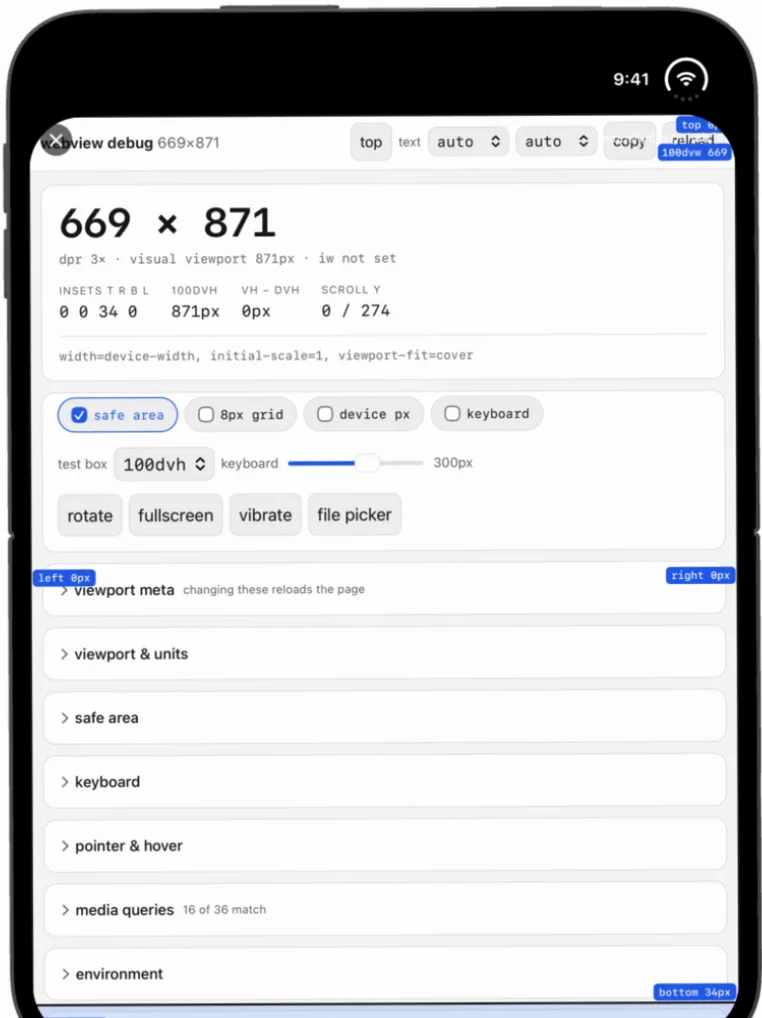
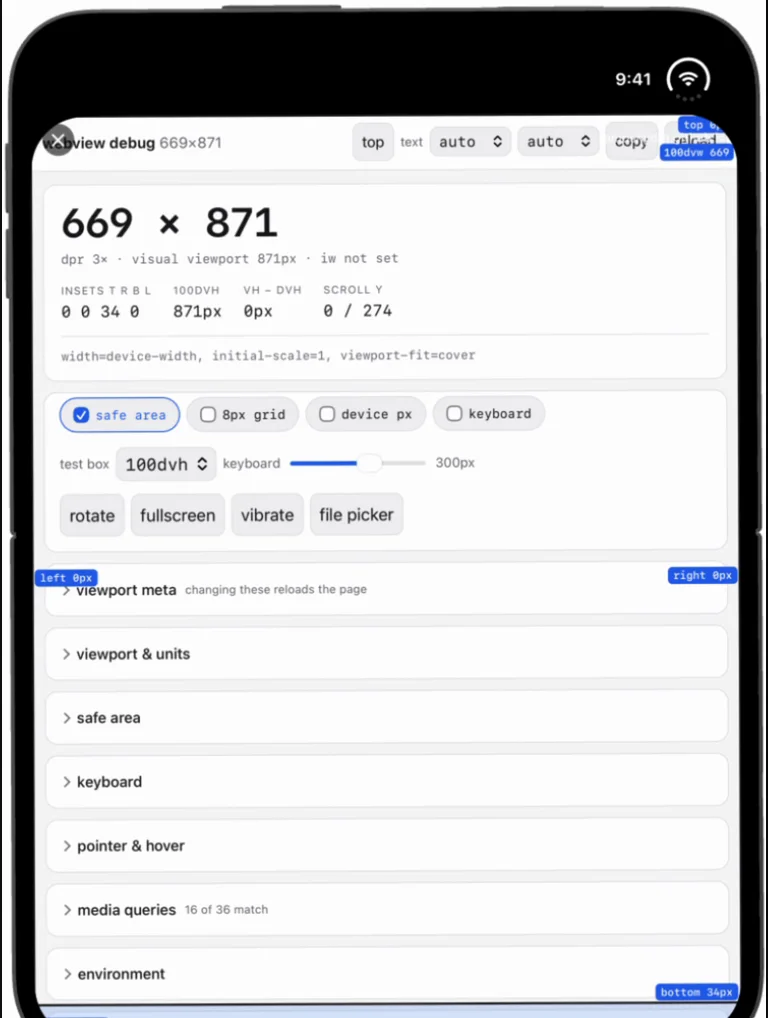
fix(post): replace all three Xcode 27.0 comparison frames
Every 27.0 frame in the SDK comparison table was picked by the
size-grouping heuristic that had already been shown to be unreliable,
and re-checking them found real defects:

  inner landscape  carried the recorder's mouse cursor, which had been
                   removed with ffmpeg delogo; the removal smeared
                   visibly across the black bezel and left a tail
  outer portrait   taken from a run where three frames out of five are
                   drawn rotated 90 degrees
  inner portrait   correct, but re-taken from the same run for
                   consistency

Regrouped by stillness instead of size. stable_runs.py samples every
frame, computes the device's dark bounding box, and keeps only runs of
three or more consecutive frames whose box has not moved or resized.
Rotation and folding animate that box, so the runs that survive are the
poses worth looking at, and reviewing one frame per run as a contact
sheet makes the bad ones obvious. The 27.0 take turns out to have only
two genuinely settled frames, both inner landscape at 871 x 669, at
t=1 and t=64; everything else that holds still for 1.5s is split view, a
half-finished fold, or the Springboard.

All three replacement frames are upright, cursor-free and need no delogo.
The letterbox is clearly visible in each: 386 x 678 with 0 0 34 0 on the
outer display, 871 x 669 with 0 34 20 34 and 669 x 871 with 0 0 34 0 on
the inner one.
[…]

diff --git a/content/posts/webview-safe-area-inset-override/stable_runs.py b/content/posts/webview-safe-area-inset-override/stable_runs.py
@@ -1,0 +1,79 @@
+#!/usr/bin/env python3
+"""Find the runs of frames where the device holds still, in a screen recording.
+
+A settled pose has a device bounding box that does not move or resize. Rotation
+and folding animate it, so grouping consecutive frames by an unchanged bbox
+separates the poses worth looking at from the transitions, without having to
+guess a timestamp or trust an aspect ratio.
+"""
+import pathlib, subprocess, sys
+
+W, H = 1158, 1196
+FS = W * H * 3
+FPS = 2
+TOL = 2  # px; absorbs encoder noise without merging genuinely different poses
+
+
+def device_bbox(buf):
+    xs, ys = [], []
+    for y in range(0, int(H * 0.86), 2):
+        row = y * W
+        for x in range(0, W, 2):
+            i = (row + x) * 3
+            if (buf[i] + buf[i + 1] + buf[i + 2]) / 3 < 90:
+                xs.append(x); ys.append(y)
+    if not xs:
+        return None
+    x0, y0 = max(0, min(xs) - 6), max(0, min(ys) - 6)
+    x1, y1 = min(W - 1, max(xs) + 6), min(H - 1, max(ys) + 6)
+    return x0, y0, x1 - x0 + 1, y1 - y0 + 1
+
+
+def main(video, outdir, tag):
+    raw = "/tmp/recheck/_all.raw"
+    subprocess.run(["ffmpeg", "-y", "-v", "error", "-i", str(video), "-vf", f"fps={FPS}",
+                    "-f", "rawvideo", "-pix_fmt", "rgb24", raw], check=True)
+    data = pathlib.Path(raw).read_bytes()
+    n = len(data) // FS
+
+    boxes = []
+    for i in range(n):
+        boxes.append(device_bbox(data[i * FS:(i + 1) * FS]))
+
+    runs, cur = [], None
+    for i, b in enumerate(boxes):
+        if b is None:
+            if cur: runs.append(cur); cur = None
+            continue
+        if cur and abs(b[2] - cur["w"]) <= TOL and abs(b[3] - cur["h"]) <= TOL:
+            cur["end"] = i; cur["n"] += 1; cur["frames"].append(i)
+        else:
+            if cur: runs.append(cur)
+            cur = {"start": i, "end": i, "n": 1, "w": b[2], "h": b[3],
+                   "x": b[0], "y": b[1], "frames": [i]}
+    if cur: runs.append(cur)
+
+    out = pathlib.Path(outdir); out.mkdir(parents=True, exist_ok=True)
+    for f in out.glob("*.png"): f.unlink()
+
+    kept = []
+    for r in runs:
+        if r["n"] < 3:            # 1.5s at 2fps; transitions never hold this long
+            continue
+        mid = r["frames"][len(r["frames"]) // 2]
+        t = mid / FPS
+        dst = out / f"{tag}-r{len(kept):02d}-t{t:.0f}.png"
+        subprocess.run(["ffmpeg", "-y", "-v", "error", "-ss", f"{t:.2f}", "-i", str(video),
+                        "-frames:v", "1", "-vf", f"crop={r['w']}:{r['h']}:{r['x']}:{r['y']}",
+                        str(dst)], check=True)
+        r["file"] = dst.name; r["t"] = t
+        kept.append(r)
+
+    print(f"{tag}: {n} frames, {len(runs)} runs, {len(kept)} held >= {3/FPS:.1f}s")
+    for i, r in enumerate(kept):
+        print(f"  r{i:02d}  t={r['t']:6.2f}s  {r['w']}x{r['h']}  held {r['n']/FPS:4.1f}s  {r['file']}")
+    return kept
+
+
+if __name__ == "__main__":
+    main(pathlib.Path(sys.argv[1]), sys.argv[2], sys.argv[3])

diff --git a/content/posts/webview-safe-area-inset-override/AGENTS.md b/content/posts/webview-safe-area-inset-override/AGENTS.md
@@ -322,6 +322,33 @@ collapses to one representative. Three things it has to work around:
 Verify every picked frame by eye before encoding. Two of the first three rows were
 wrong in ways no size check caught: a mid-rotation frame, and a split view.
 
+**Grouping by page size is not enough — group by stillness.** Size-keyed grouping
+still returned a frame at t=26 that carried the recorder's mouse cursor, and two
+portrait poses where only one frame in five was upright. What actually works is
+`stable_runs.py`: sample every frame, compute the device's dark bounding box, and
+keep only runs of three or more consecutive frames whose box has not moved or
+resized. Rotation and folding animate that box, so the runs that survive *are* the
+poses. Review one frame per run as a contact sheet and pick.
+
+Pick the **midpoint** frame of a run, not its first. On this recording the outer
+portrait pose appears at t≈8.5, 9.0, 12.5, 15.0 and 18.5, of which 8.5, 9.0 and
+15.0 are drawn rotated 90° — the same bounding box, the content on its side. A
+tilt test has to look at the content, not the chassis.
+
+The 27.0 take has only two genuinely settled frames, both inner landscape at
+`871 × 669`, at t≈1 and t≈64; everything else that holds still for 1.5s is split
+view, a half-finished fold, or the Springboard. Do not assume a pose is available
+because the device size for it appears somewhere in the recording.
+
+**The 27.0 letterbox is not stable across the whole session.** At t≈2.5 the inner
+portrait reads `669 × 871` with the 80pt band visible above the page; at t≈45.5 the
+same build reads `669 × 951` with no band, same page, same insets `0 0 34 0`. Both
+frames are in the 27.0 recording and neither is a rotation artefact. The cause was
+not identified — the app appears to have been backgrounded and relaunched around
+t≈47–58, so a window change is plausible, but that was not confirmed. So the
+post's "27.0 letterboxes" is a claim about the frames shown, not a proven invariant
+of the SDK, and if anyone challenges it this is the frame that shows the counterexample.
+
 **Normalise each pair to identical pixel dimensions.** The same device is rendered
 at a slightly different scale in the two recordings, so the raw crops differ by a
 few pixels and the row renders with a height spread. Scale both to a shared height
